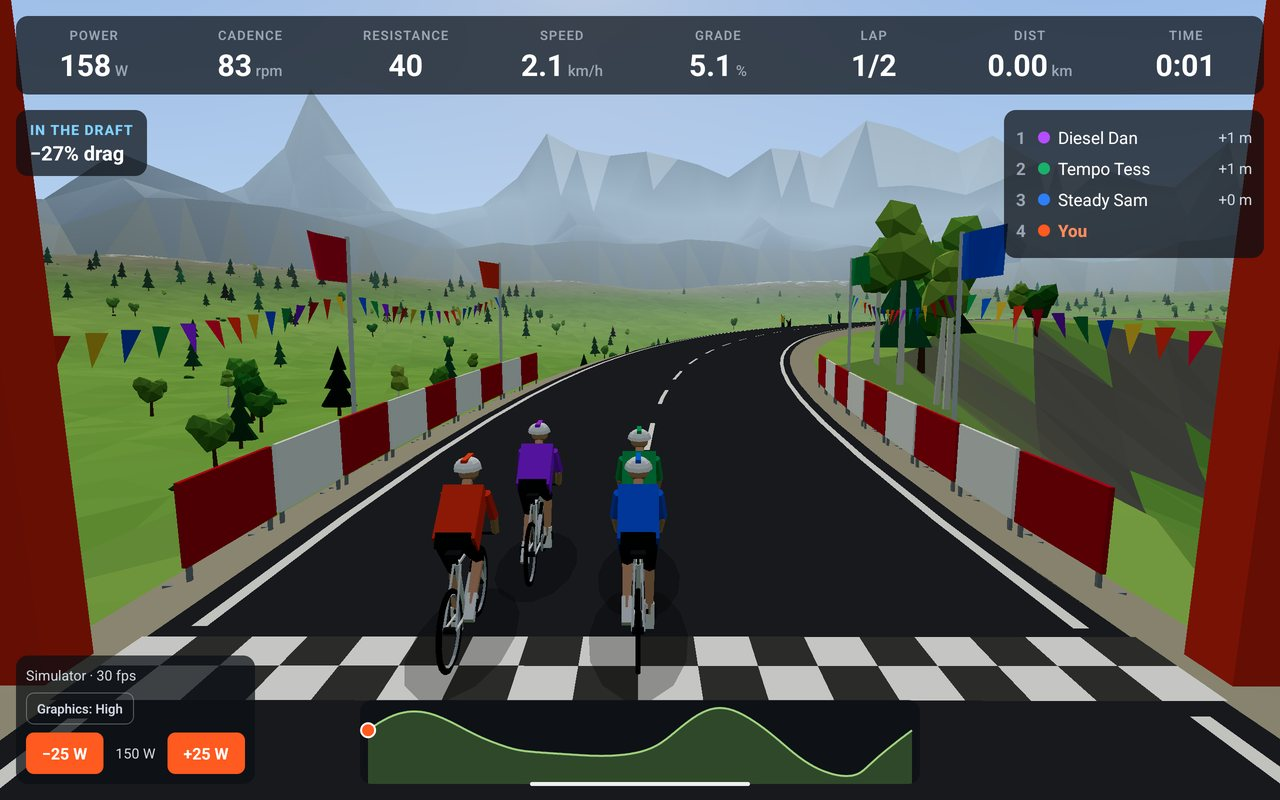
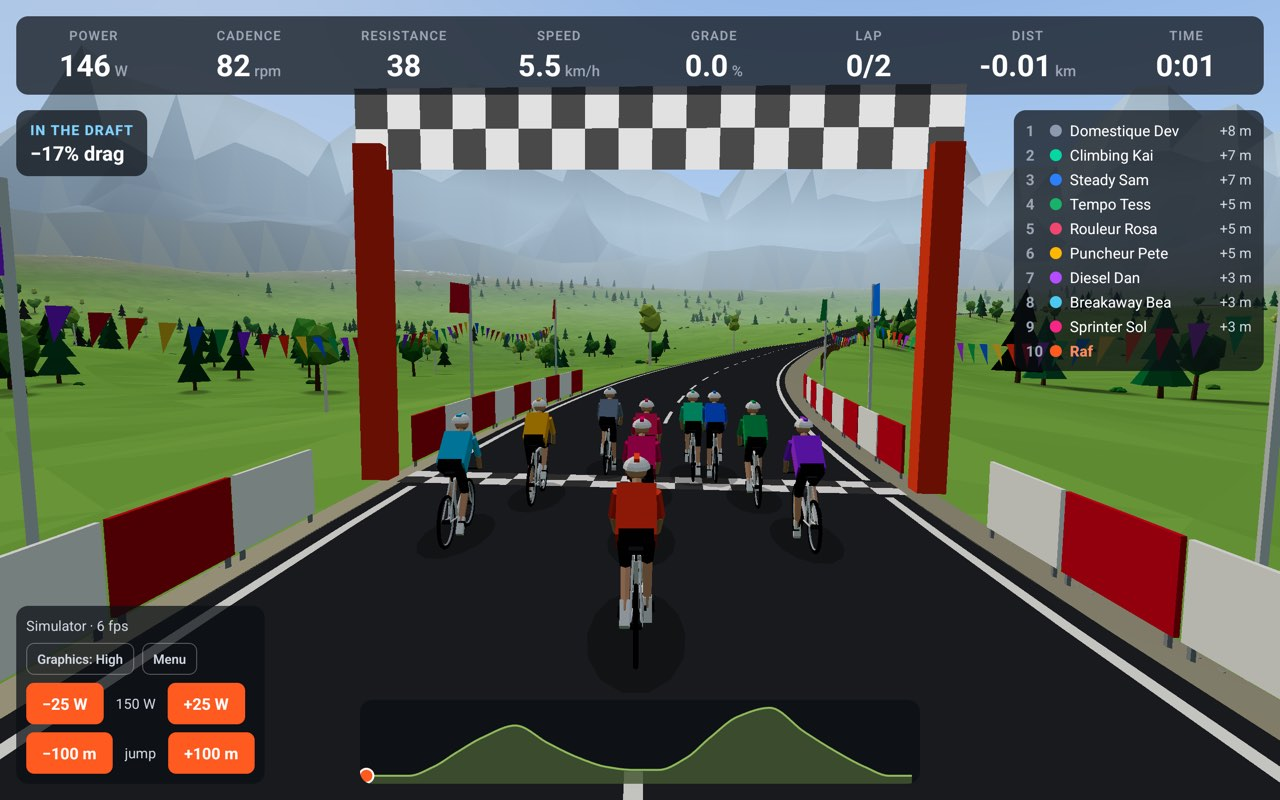
Refresh README screenshots for the new courses
New emulator captures of the hero start line, the menu and one shot
per map: the Alpine chapel, the Winter avalanche gallery, the Autumn
ruined tower and the Golden Hour lakeside straight. Notes the
simulator's jump buttons in the development section.

diff --git a/README.md b/README.md
@@ -183,6 +183,9 @@ pnpm lint         # Biome
 pnpm maps:report  # each circuit's climbs, grades and bends
 ```
 
+Without a bike the HUD runs a power simulator: ±25 W buttons, and jump buttons that move the whole field
+100 m along the road to look round a course (rides that jump aren't saved).
+
 The race logic and physics are plain TypeScript with no React or three.js, so you can simulate a whole race
 headless with `tsx`, which is how drafting, lane changes and ghost replay were tuned.
 
